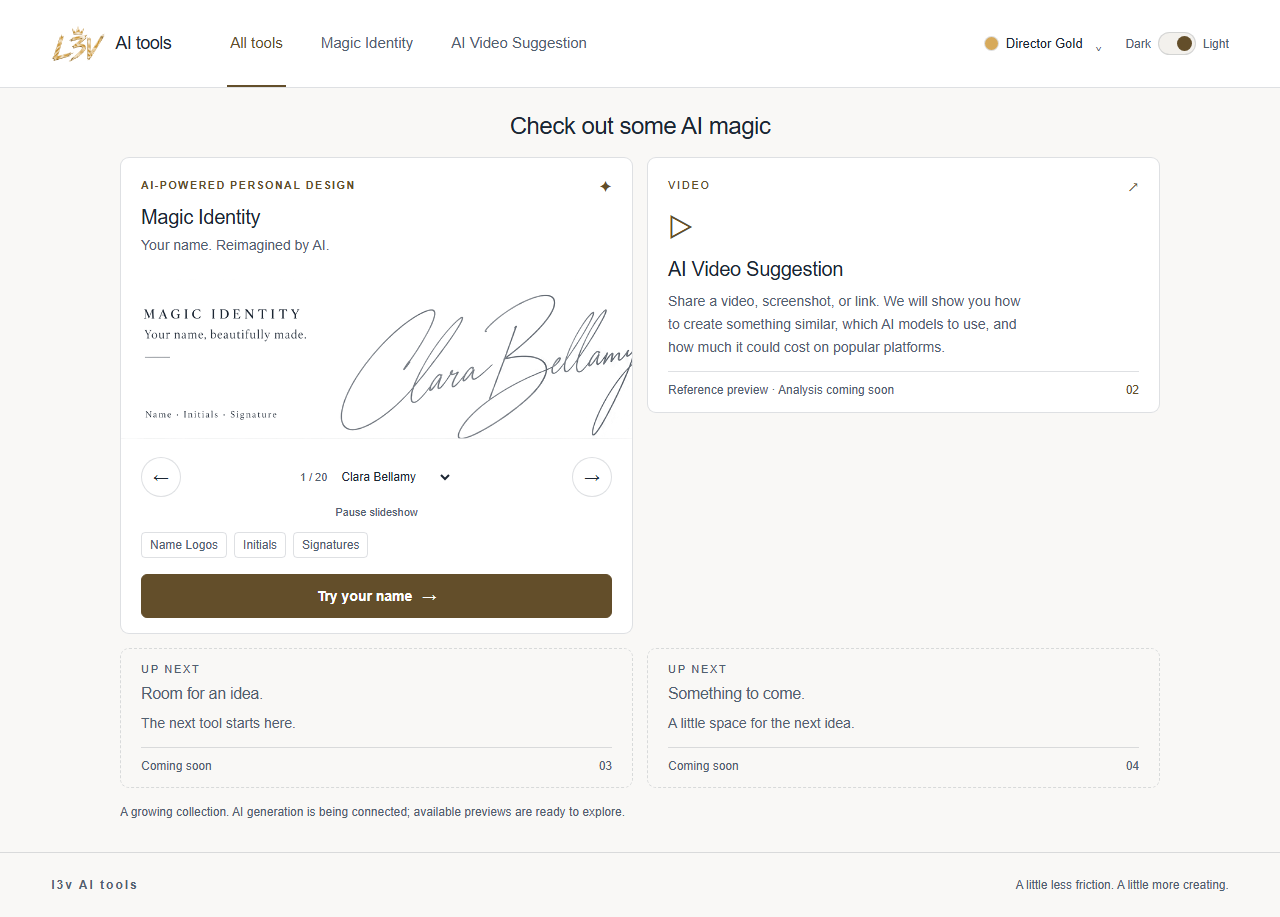
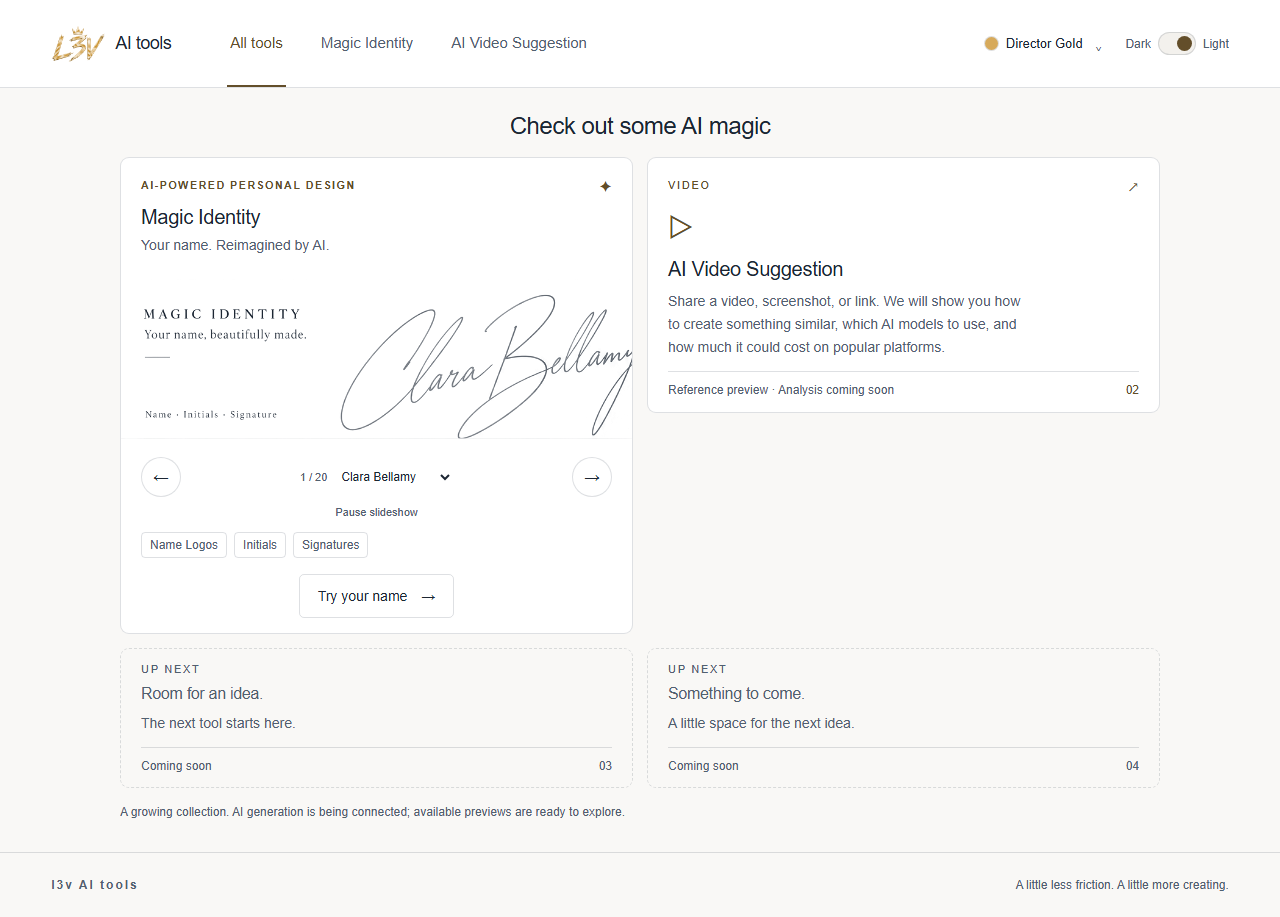
Use selected neutral outline button style

Changed region(s): [[0.0938, 0.6107, 0.5, 0.6718]]

diff --git a/tools-website/src/appearance.css b/tools-website/src/appearance.css
@@ -39,6 +39,7 @@ body{background:var(--background);color:var(--foreground)}.topbar,.skip{backgrou
 @media(max-width:620px){.concept-viewport{height:125px;min-height:125px}}
 @media(prefers-reduced-motion:reduce){.concept-viewport .concept-slide{transition:none}}
 
-.identity-try-button{display:flex;align-items:center;justify-content:center;gap:10px;min-height:44px;padding:11px 18px;margin-top:4px;border:1px solid var(--accent);border-radius:6px;background:var(--accent);color:var(--panel);font-size:14px;font-weight:600;text-decoration:none;transition:filter .15s ease}
-.identity-try-button:hover{filter:brightness(1.12)}
+.identity-try-button{display:inline-flex;align-self:center;align-items:center;justify-content:center;gap:14px;min-height:44px;padding:10px 18px;margin-top:4px;border:1px solid var(--border);border-radius:5px;background:transparent;color:var(--foreground);font-size:14px;font-weight:500;text-decoration:none;transition:background-color .15s ease,border-color .15s ease}
+.identity-try-button:hover{background:var(--surface);border-color:var(--muted)}
 @media(prefers-reduced-motion:reduce){.identity-try-button{transition:none}}
+
